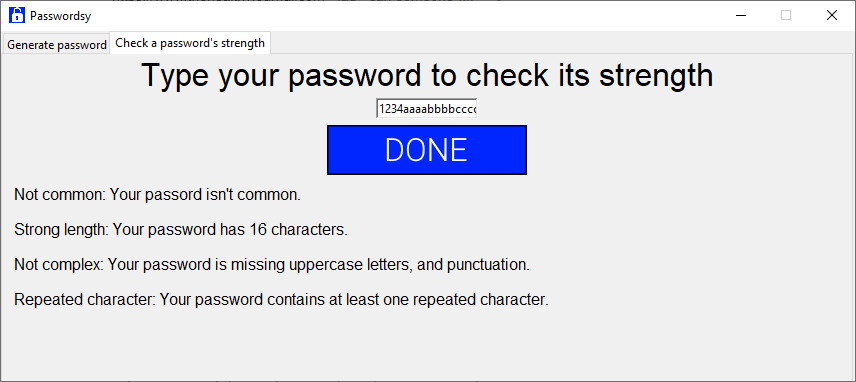
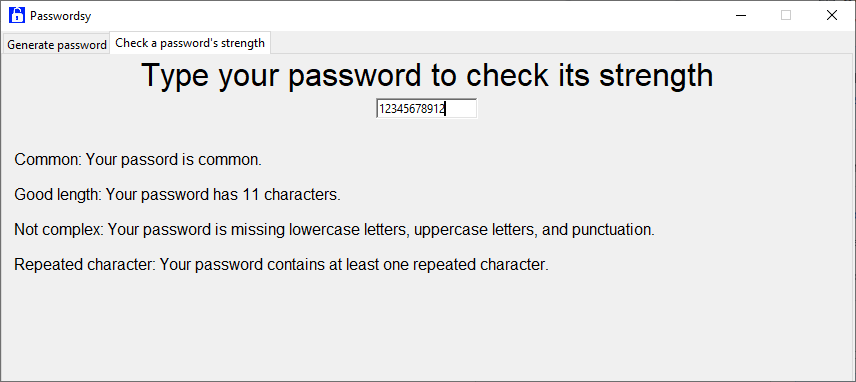
forgot to remove that argument

diff --git a/password_generator/main.py b/password_generator/main.py
@@ -61,7 +61,7 @@ def main() -> None:
         password_strength_frame.grid(column = 0, row = 0)
         notebook.add(password_strength_frame, text = 'Check a password\'s strength')
 
-        password_strength.show_password_strength_frame(password_strength_frame, done_btn_image)
+        password_strength.show_password_strength_frame(password_strength_frame)
 
     window.mainloop()
 
